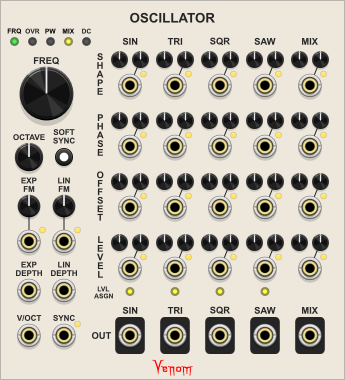
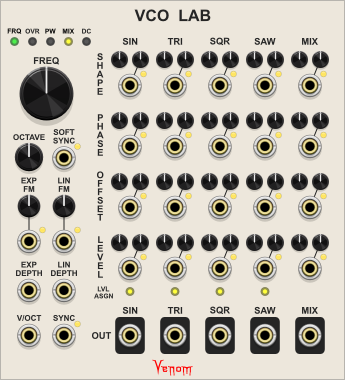
Rename oscillator to VCO Lab

Changed region(s): [[0.3768, 0.0, 0.6377, 0.0579], [0.1449, 0.3763, 0.2319, 0.4632]]

diff --git a/README.md b/README.md
@@ -20,21 +20,21 @@ Venom modules version 2.7.0 for VCV Rack 2 are copyright 2023, 2024 Dave Benham 
 |----|----|----|----|----|
 |![Mix 4 module image](doc/Mix4.png)|![Mix 4 Stereo module image](doc/Mix4Stereo.png)|![Mix Offset Expander module image](doc/MixOffset.png) &nbsp;![Mix Mute Expander module image](doc/MixMute.png) &nbsp;![Mix Solo Expander module image](doc/MixSolo.png) &nbsp;![Mix Fade Expander module image](doc/MixFade.png) &nbsp;![Mix Fade2 Expander module image](doc/MixFade2.png) &nbsp;![Mix Pan Expander module image](doc/MixPan.png) &nbsp;![Mix Send Expander module image](doc/MixSend.png)|![Multi Merge module image](doc/MultiMerge.png)|![Multi Split module image](doc/MultiSplit.png)|
 
-|[NON-OCTAVE REPEATING SCALE<br />INTERVALLIC QUANTIZER](#non-octave-repeating-scale-intervallic-quantizer)|[NORSIQ<br />CHORD<br />TO<br />SCALE](#norsiq-chord-to-scale)|[OSCILLATOR](#oscillator)|
-|----|----|----|
-|![Non-Octave Repeating Scale Intervallic Quantizer image](doc/NORS_IQ.png)|![NORSIQ Chord To Scale module image](doc/NORSIQChord2Scale.png)|![Oscillator module image](doc/Oscillator.png)|
-
-|[POLY<br />CLONE](#poly-clone)|[POLY<br />OFFSET](#poly-offset)|[POLY<br />SAMPLE & HOLD<br />ANALOG SHIFT<br />REGISTER](#poly-sample--hold-analog-shift-register)|[POLY<br />SCALE](#poly-scale)|[POLY<br />UNISON](#poly-unison)|[PUSH 5](#push-5)|[RECURSE](#recurse)|[RECURSE<br />STEREO](#recurse-stereo)|
-|----|----|----|----|----|----|----|----|
-|![Poly Clone module image](doc/PolyClone.png)|![Poly Offset module image](doc/PolyOffset.png)|![Poly Sample & Hold Analog Shift Register module image](doc/PolySHASR.png)|![Poly Scale module image](doc/PolyScale.png)|![Poly Unison module image](doc/PolyUnison.PNG)|![Push 5 module image](doc/Push5.png)|![RECURSE module image](doc/Recurse.PNG)|![RECURSE STEREO module image](doc/RecurseStereo.PNG)|
-
-|[REFORMATION](#reformation)|[RHYTHM EXPLORER](#rhythm-explorer)|[SHAPED<br />VCA](#shaped-vca)|
-|----|----|----|
-|![Reformation module image](doc/Reformation.PNG)|![Rhthm Explorer module image](doc/RhythmExplorer.PNG)|![SHAPED VCA module image](doc/ShapedVCA.png)|
-
-|[VCA MIX 4](#vca-mix-4)|[VCA MIX 4 STEREO](#vca-mix-4-stereo)|[VENOM<br />BLANK](#venom-blank)|[WIDGET<br />MENU<br />EXTENDER](#widget-menu-extender)|[WINCOMP](#wincomp)|
+|[NON-OCTAVE REPEATING SCALE<br />INTERVALLIC QUANTIZER](#non-octave-repeating-scale-intervallic-quantizer)|[NORSIQ<br />CHORD<br />TO<br />SCALE](#norsiq-chord-to-scale)|[POLY<br />CLONE](#poly-clone)|[POLY<br />OFFSET](#poly-offset)|[POLY<br />SAMPLE & HOLD<br />ANALOG SHIFT<br />REGISTER](#poly-sample--hold-analog-shift-register)|
 |----|----|----|----|----|
-|![VCA MIX 4 module image](doc/VCAMix4.png)|![VCA Mix 4 Stereo module image](doc/VCAMix4Stereo.png)|![VENOM BLANK module image](doc/VenomBlank.PNG)|![WIDGET MENU EXTENDER module imiage](doc/WidgetMenuExtender.png)|![WINCOMP module image](doc/WinComp.PNG)|
+|![Non-Octave Repeating Scale Intervallic Quantizer image](doc/NORS_IQ.png)|![NORSIQ Chord To Scale module image](doc/NORSIQChord2Scale.png)|![Poly Clone module image](doc/PolyClone.png)|![Poly Offset module image](doc/PolyOffset.png)|![Poly Sample & Hold Analog Shift Register module image](doc/PolySHASR.png)|
+
+|[POLY<br />SCALE](#poly-scale)|[POLY<br />UNISON](#poly-unison)|[PUSH 5](#push-5)|[RECURSE](#recurse)|[RECURSE<br />STEREO](#recurse-stereo)|[REFORMATION](#reformation)|
+|----|----|----|----|----|----|
+|![Poly Scale module image](doc/PolyScale.png)|![Poly Unison module image](doc/PolyUnison.PNG)|![Push 5 module image](doc/Push5.png)|![RECURSE module image](doc/Recurse.PNG)|![RECURSE STEREO module image](doc/RecurseStereo.PNG)|![Reformation module image](doc/Reformation.PNG)|
+
+|[RHYTHM EXPLORER](#rhythm-explorer)|[SHAPED<br />VCA](#shaped-vca)|[VCA MIX 4](#vca-mix-4)|[VCA MIX 4 STEREO](#vca-mix-4-stereo)|
+|----|----|----|----|
+|![Rhthm Explorer module image](doc/RhythmExplorer.PNG)|![SHAPED VCA module image](doc/ShapedVCA.png)|![VCA MIX 4 module image](doc/VCAMix4.png)|![VCA Mix 4 Stereo module image](doc/VCAMix4Stereo.png)|
+
+|[VCA LAB](#vca-lab)|[VENOM<br />BLANK](#venom-blank)|[WIDGET<br />MENU<br />EXTENDER](#widget-menu-extender)|[WINCOMP](#wincomp)|
+|----|----|----|----|
+|![VCA Lab module image](doc/Oscillator.png)|![VENOM BLANK module image](doc/VenomBlank.PNG)|![WIDGET MENU EXTENDER module imiage](doc/WidgetMenuExtender.png)|![WINCOMP module image](doc/WinComp.PNG)|
 
 ## Color Coded Ports
 All polyphonic ports use brass cores, while monophonic ports use steel cores.
@@ -1181,9 +1181,6 @@ All outputs are constant monophonic 0V if NORSIQ Chord To Scale is bypassed.
 
 [Return to Table Of Contents](#venom)
 
-## OSCILLATOR
-![Oscillator module image](doc/Oscillator.png)
-
 ## POLY CLONE
 ![Poly Clone module image](doc/PolyClone.png)  
 Poly Clone replicates each channel from a polyphonic input and merges the result into a single polyphonic output. It is especially useful with the Recurse modules when using polyphonic inputs. Poly Clone provides a convenient way to replicate channels in polyphonnic CV inputs to match the recursion count.
@@ -2182,6 +2179,9 @@ VCA Mix 4 Stereo is a stereo version of the [VCA MIX 4](#vca-mix-4), sharing the
 All other behaviors are the same as for Mix 4.
 
 [Return to Table Of Contents](#venom)
+
+## VCO LAB
+![VCO Lab module image](doc/Oscillator.png)
 
 
 ## VENOM BLANK

diff --git a/changelog.md b/changelog.md
@@ -4,7 +4,7 @@
 ### New Modules
 - Blocker (interrupts extended expander chains)
 - Bypass
-- Oscillator
+- VCO Lab
 
 ### Enhancements
 - Shaped VCA
